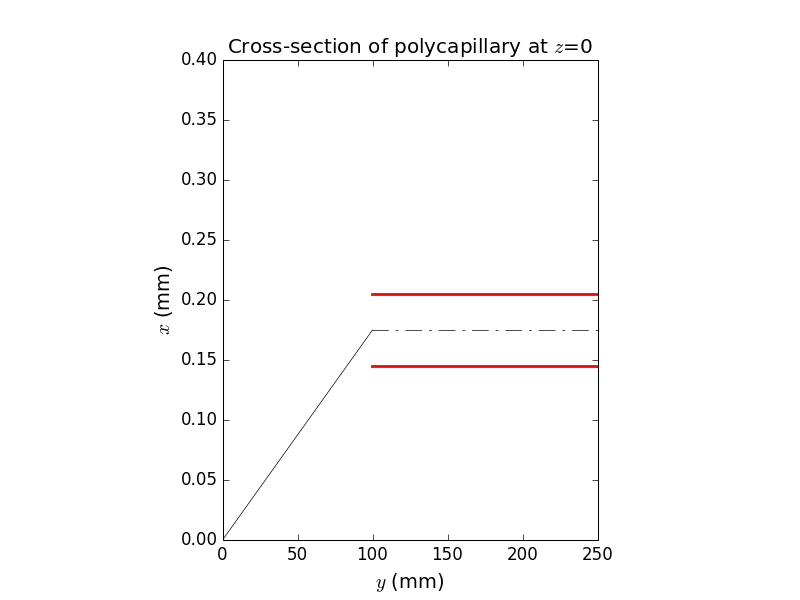
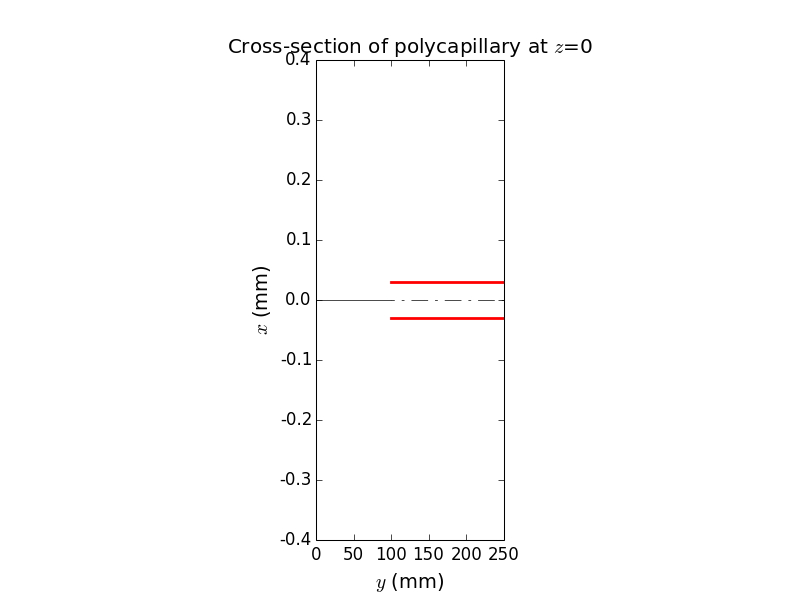
Straight centered (without tilt)

diff --git a/StraightCapillary.py b/StraightCapillary.py
@@ -43,7 +43,7 @@ class StraightCapillary(roe.OE):
         s0 = self.f - self.rSample * np.cos(self.entranceAlpha)
         self.a0 = -np.tan(self.entranceAlpha) / 2 / s0
         self.b0 = 0.5*self.rSample * np.sin(self.entranceAlpha) - self.a0 * s0**2
-        self.b0 = 0.175
+        self.b0 = 0.
         self.s0 = s0
         self.ar = (self.r0out-self.r0in) / s0**2
         self.br = self.r0in
@@ -139,7 +139,7 @@ def plot2D():
     ax1.plot(f-s, x+r, 'r-', lw=2)
     
     ax1.set_xlim(0,f)
-    ax1.set_ylim(0,0.4)
+    ax1.set_ylim(-0.4,0.4)
     # always save
     fig1.savefig('MonoCapillaryZ0crosssection.png')
     
